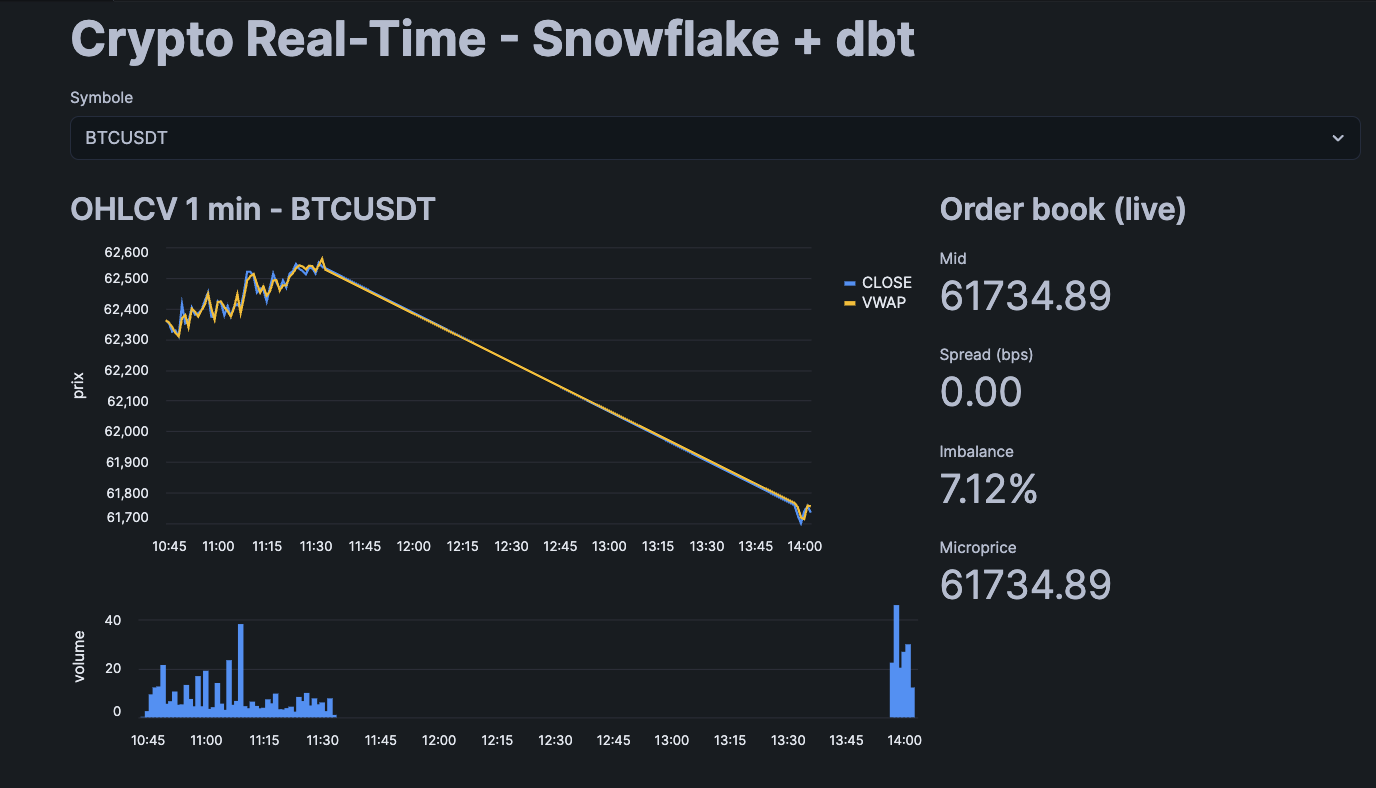
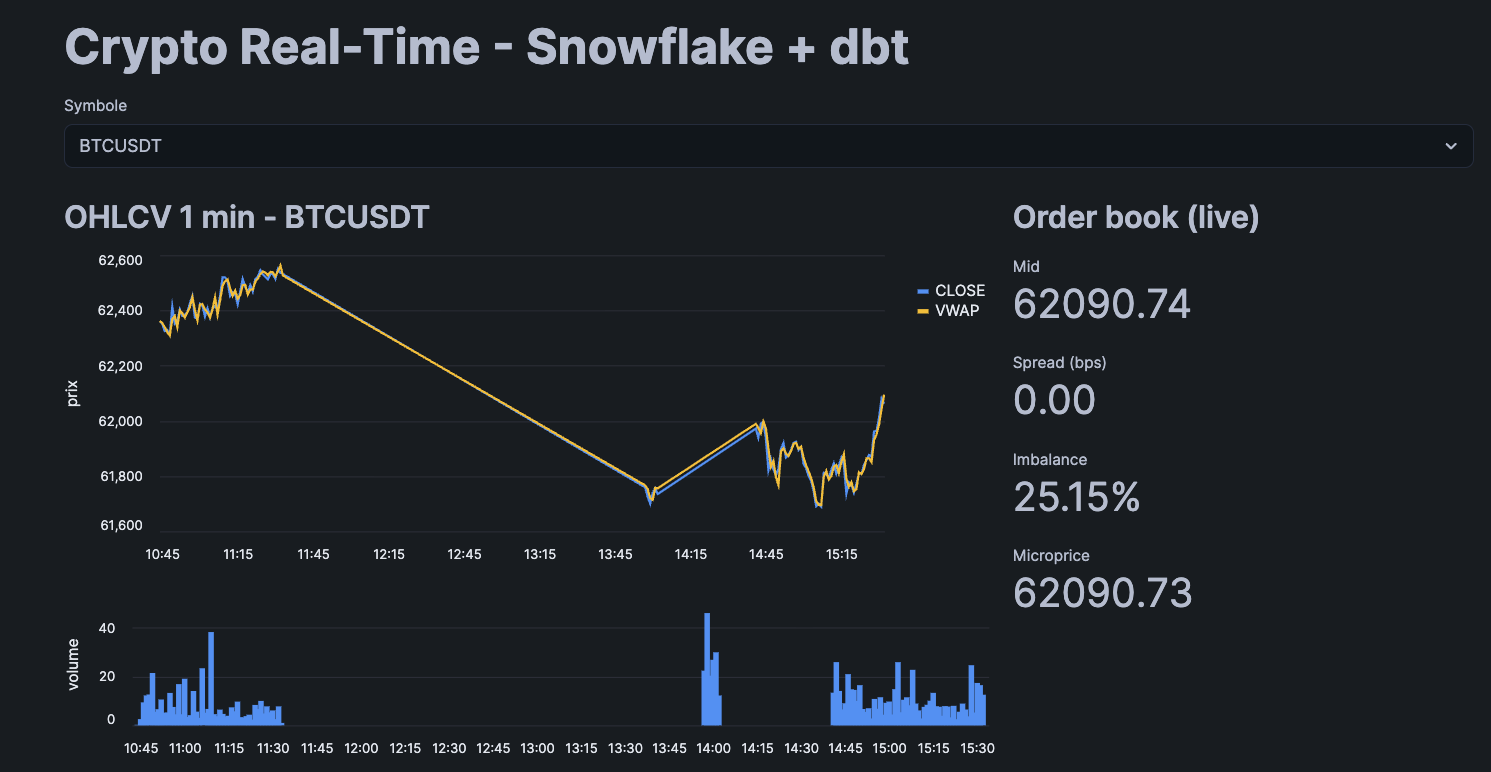
docs: 2 diagrammes (pipeline medallion + gouvernance detaillee)

diff --git a/README.md b/README.md
@@ -29,30 +29,69 @@
 
 ## Architecture
 
+### Pipeline de données (medallion)
+
 ```mermaid
 flowchart TB
     BWS["Binance WebSocket<br/>@trade + @depth"]
-    BWS -->|"Snowpipe Streaming ~5-10s"| RAW
-
-    subgraph SF["Snowflake - dbt Projects on Snowflake"]
+    CONS["Consumer Python<br/>Snowpipe Streaming SDK"]
+    BWS --> CONS
+    subgraph SF["Snowflake (AWS) - dbt Projects on Snowflake"]
         direction TB
-        RAW["Bronze - RAW VARIANT<br/>raw_trades / raw_depth"]
-        STG["Silver - staging views<br/>stg_trades / stg_depth_levels"]
-        MARTS["Gold - marts<br/>live views + Dynamic Tables"]
-        RAW -->|"flatten-variant (agent)"| STG
-        STG -->|"realtime-marts (agent)"| MARTS
+        subgraph BRZ["Bronze - VARIANT brut"]
+            RAWT["raw_trades"]
+            RAWD["raw_depth"]
+        end
+        subgraph SLV["Silver - staging (vues)"]
+            STGT["stg_trades"]
+            STGD["stg_depth_levels"]
+        end
+        subgraph INT["Intermediate (tables)"]
+            INTT["int_trades_enriched"]
+            INTD["int_depth_levels"]
+        end
+        subgraph GLV["Gold live (vues, calcul a la lecture)"]
+            VOHLCV["vw_ohlcv_1min_live"]
+            VOB["vw_orderbook_metrics_live"]
+            VMM["vw_market_metrics_live"]
+        end
+        subgraph GHS["Gold historique (Dynamic Tables, lag 1 min)"]
+            FOHLCV["fct_ohlcv_1min"]
+            FOBS["fct_orderbook_snapshots"]
+            DIM["dim_symbols (seed)"]
+        end
     end
+    CONS -->|"Snowpipe Streaming ~5-10s"| BRZ
+    BRZ -->|"flatten-variant (Cortex Code)"| SLV
+    SLV --> INT
+    SLV -->|"realtime-marts (Cortex Code)"| GLV
+    SLV -->|"realtime-marts"| GHS
+    GLV --> DASH["Streamlit dashboard"]
+    GLV --> OBS["Observabilité / SLO"]
+```
 
-    MARTS --> DASH["Streamlit dashboard live"]
-    MARTS --> OBS["Observabilité / SLO"]
+### Gouvernance & orchestration
 
-    subgraph GOV["Gouvernance - détection auto + remédiation agentique (revue humaine)"]
-        direction LR
-        DET["Détection auto<br/>Tasks / Alerts<br/>drift / qualité / fraîcheur"] -->|"alerte -> pipeline_log"| REM["Remédiation (agent, revue)<br/>check-schema-drift<br/>generate-quality-tests"]
+```mermaid
+flowchart LR
+    PIPE["Pipeline Snowflake<br/>RAW -> staging -> marts"]
+    subgraph DET["Détection auto (planifiée)"]
+        direction TB
+        DRIFT["crypto_schema_drift_check<br/>Task - quotidien"]
+        DTEST["crypto_dbt_test<br/>Task - horaire"]
+        QCHK["crypto_quality_check<br/>Task - horaire"]
+        FRESH["crypto_freshness_alert<br/>Alert - 5 min"]
     end
-
-    SF -.->|"drift / échec"| GOV
-    GOV -.->|"corrige (revue)"| SF
+    LOG[("pipeline_log")]
+    REM["Agents remédiation (revue humaine)<br/>check-schema-drift<br/>generate-quality-tests"]
+    PIPE -->|"métriques & schéma"| DET
+    DRIFT --> LOG
+    DTEST --> LOG
+    QCHK --> LOG
+    FRESH --> LOG
+    LOG -->|"signal"| REM
+    REM -->|"corrige (revue)"| PIPE
+    RM["Resource Monitor (FinOps)"] -.->|"cap credits"| PIPE
 ```
 
 - **Source** : Binance WebSocket, `@trade` (transactions) + `@depth` (carnet d'ordres, JSON imbriqué).
